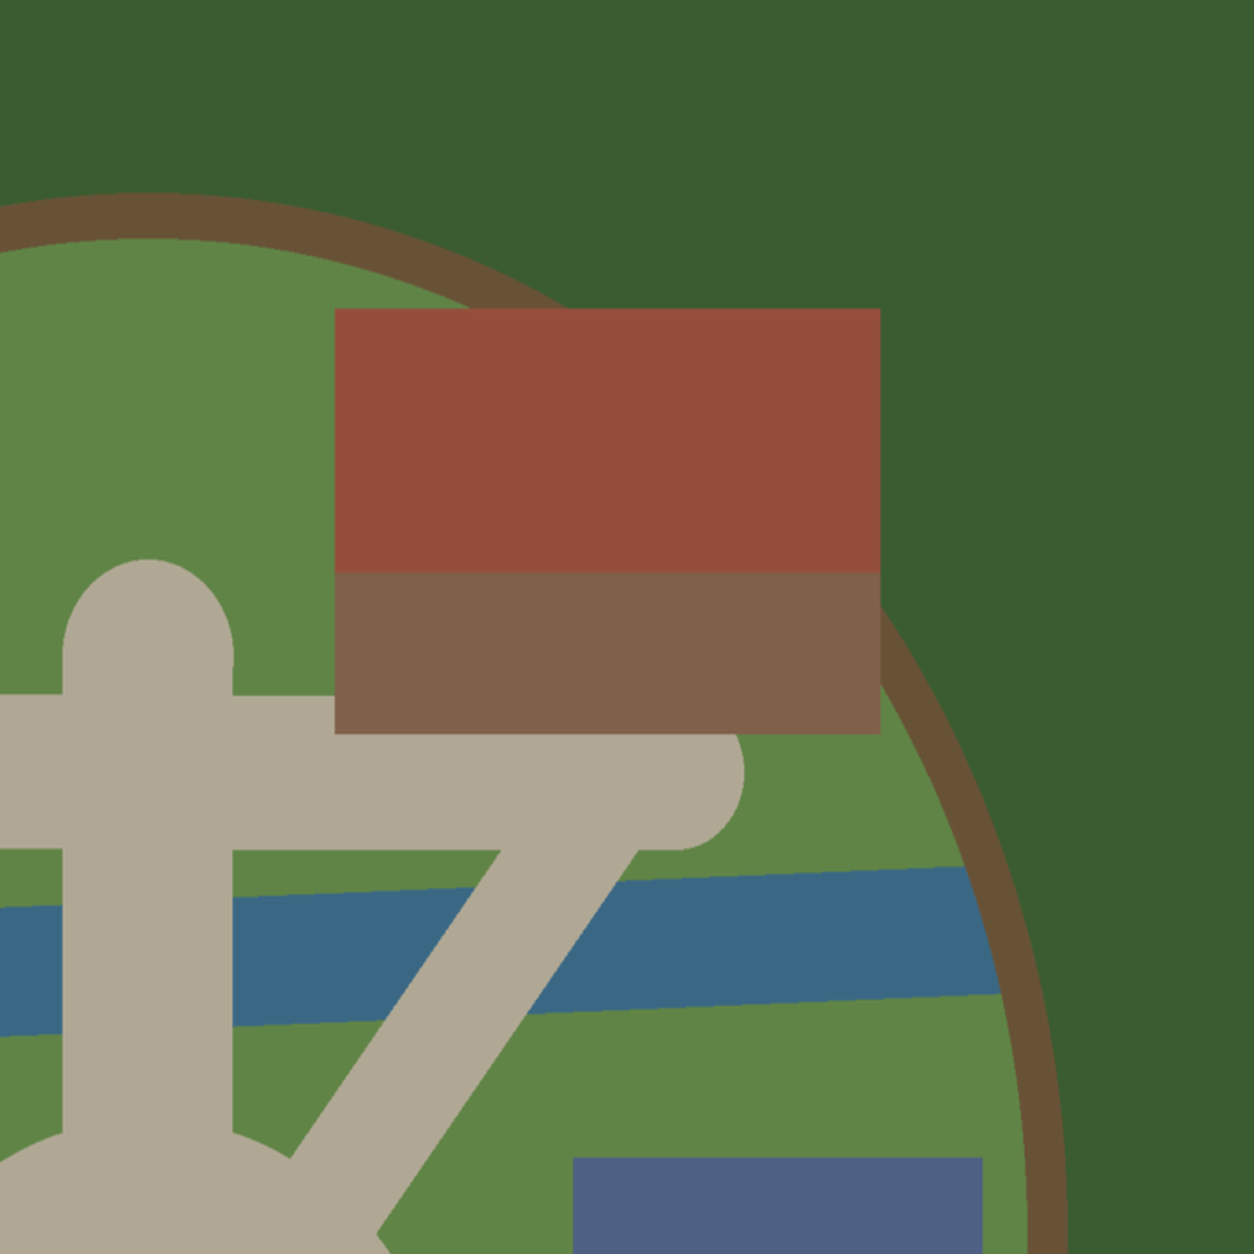
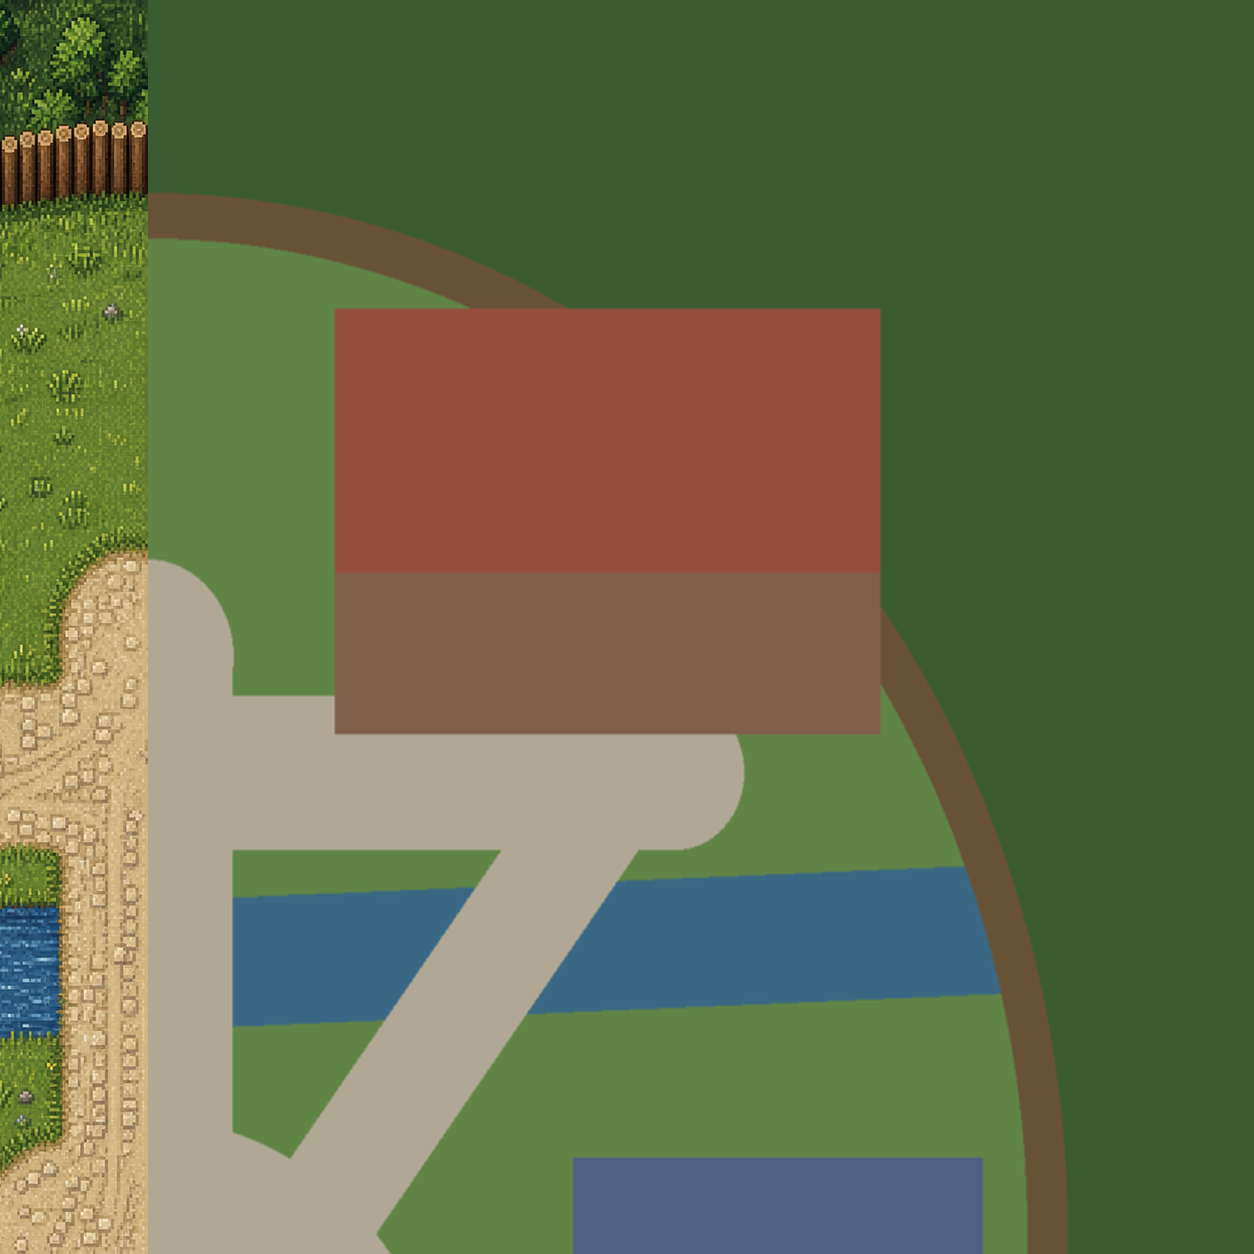
art: millbrook tile 0,0, and the pin keys the plate will need
TILE 0,0 IS DONE AND GATED: layout correlation 0.8839 against its own primer, against
0.2820 for the same tile under the shared whole-town brief. It draws the plan and nothing
else -- the palisade arc on its measured path, the sage-house on its block with door and
windows, the pale lanes with cart ruts, and the millstream running west to east across the
lower third and stopping where the north lane bridges it. No invented gate, no invented
well; both are listed in its brief as absent.

TILES 0,1 / 1,0 / 1,1 ARE NOT BAKED. The Codex account hit its usage limit mid-chain:
"You've hit your usage limit ... try again at Aug 21st, 2026 9:03 AM". Both remaining
calls exited 1 with no image, and 1,1 then correctly refused to start because it grafts
its band from 1,0. This is a quota wall, not a defect -- nothing in the pipeline needs
changing, it needs credits or the reset.

The briefs and primers for 0,1 and 1,0 are committed as generated, so the resumed run
starts from exactly the inputs that were about to be used. Note their edge crossings
already agree across the seam: the palisade leaves 0,0's right edge at 15-19% and meets
0,1's left edge at 16-20%.

scripts/millbrook_finish_plate.sh now carries the three pin keys verbatim in its header.
They are NOT applied to scripts/runtime_baseline.py yet, on purpose: build-dist.sh refuses
to assemble dist/ while a pinned file is missing from public/, so adding them before the
plate exists would leave HEAD unbuildable.

Changed region(s): [[0.0, 0.0, 0.1244, 1.0]]

diff --git a/design/act1-towns/millbrook/brief-01.md b/design/act1-towns/millbrook/brief-01.md
@@ -1,38 +1,54 @@
+DO THIS YOURSELF, one generation call, do not dispatch a sub-agent. Produce the image
+and stop; do not review it, do not redraw it, do not ask another agent to improve it.
+
 Draw this as hand-drawn, hard-edged pixel art at full detail.
 
-THE INPUT IS A PLAN, NOT A PICTURE. It is a flat colour-coded diagram of one tile (0,1) of a
-2x2 grid covering a small top-down JRPG mill village inside a timber palisade, with one gate at the SOUTH, a clear millstream running west to east across the north of the village, a working watermill with a wooden wheel turning in that stream, a plank bridge where the main lane crosses it, and a packed-earth yard around a stone well. It is not a blurry painting to be sharpened; it is a map telling you
-WHERE EVERYTHING GOES. Draw the finished village that this plan describes, keeping every element in
-exactly the position and at exactly the size the plan gives it.
+THE INPUT IS A PLAN, NOT A PICTURE. It is a flat colour-coded diagram, and it is ONE QUADRANT --
+tile (0,1) of a 2x2 grid -- of a small top-down JRPG mill village inside a round timber
+palisade. It is not a blurry painting to be sharpened and it is not a theme to riff on: it is a map
+telling you WHERE EVERY SINGLE THING GOES inside this crop. Draw the finished village that this
+exact crop describes, keeping every element in exactly the position, at exactly the size, and with
+exactly the extent the plan gives it.
 
-READ THE COLOURS LIKE THIS, and change nothing about where they are:
-  pale warm grey (176,168,148)  the packed-earth street and yard. THIS IS WHERE THE PLAYER WALKS, so
-                                it must read unmistakably as open, even ground -- worn earth and set
-                                stone, no clutter across it, no bushes or crates growing into it.
-  mid green (96,132,70)         grass and planting INSIDE the palisade.
-  dark green (58,92,48)         the woodland/meadow OUTSIDE the palisade.
-  brown ring (104,82,54)        the TIMBER PALISADE. A continuous wall of upright logs. It must be
-                                unbroken all the way round except at the one gate.
-  tan gap at the bottom         THE ONE GATE, and the only way in or out. Draw a real gateway there:
-                                posts, a lintel, open leaves. Everywhere else the wall is solid.
-  brown blocks with a coloured  BUILDINGS. The coloured upper part is the ROOF, the brown lower part
-  upper band                    is the facade, so each building faces DOWN-SCREEN toward the yard.
-                                Give every one a door on that facade and windows, and stand it
-                                exactly on its block.
-  blue                          WATER.
-  grey disc                     a stone well.
+WHAT IS ACTUALLY IN THIS CROP, measured off the image you have been given:
 
-WHAT YOU ARE ADDING is craft, not content: texture, material, light, doors, windows, shutters, roof
-tiles, fence posts, cart ruts, planting at the edges of the grass. Do not add a building the plan
-does not have, do not move one, do not open a second gap in the wall, and do not pave over grass or
-grass over paving -- the boundary between them is the collision the game already uses.
+  - dark-green WOODLAND, outside the palisade: 38.6% of this crop, spanning 5%-99% across and 1%-95% down
+  - mid-green GRASS, inside the palisade: 19.3% of this crop, spanning 1%-79% across and 21%-98% down
+  - pale PACKED-EARTH STREET AND YARD, the ground the player walks on: 15.9% of this crop, spanning 2%-55% across and 48%-99% down
+  - brown BUILDING FACADE, the lower band of a building block: 5.6% of this crop, spanning 27%-69% across and 46%-58% down
+  - slate-blue ROOF, the upper band of a building block: 2.5% of this crop, spanning 46%-78% across and 92%-100% down
+  - red-brown ROOF, the upper band of a building block: 9.1% of this crop, spanning 28%-69% across and 25%-45% down
+  - the TIMBER PALISADE, a wall of upright logs: 3.3% of this crop, spanning 2%-84% across and 16%-98% down; it meets the bottom edge at 82%-85%; left edge at 16%-20%
+  - the MILLSTREAM, clear running water: 5.5% of this crop, spanning 1%-77% across and 70%-81% down; it meets the left edge at 72%-83%
 
-THE LEFT EDGE OF THIS IMAGE IS ALREADY FINISHED ARTWORK, carried over from the tile
-drawn before this one. Reproduce those 148 pixels EXACTLY -- same shapes, same colours, same
-level of detail -- and continue that same drawing inward across the rest of the tile. Do not
-restyle them, do not brighten them, do not reinterpret them. They are the join, and a visible
-change across it is a failure.
+NOT PRESENT IN THIS CROP AT ALL, and therefore MUST NOT BE DRAWN INTO IT:
+  the ONE GATE through the palisade
+  a round STONE WELL
 
+READ THAT LIST LITERALLY. It is the complete contents of this crop. This is a QUADRANT of a larger
+plan, so most of the village's landmarks are in the OTHER quadrants and are not your problem. Do not
+add a gate, a well, a bridge, a watermill, a wheel, a pond, a building, a path or a stream that is
+not in the list above, however natural it would look and however much the village as a whole might
+have one somewhere else. Inventing a landmark here puts it in the wrong place on the finished town,
+and the pale ground is the COLLISION MAP the game already uses -- so paving over grass or grassing
+over paving changes where the player is allowed to walk.
+
+GEOMETRY IS THE POINT. The palisade must follow the plan's brown curve along its whole length and
+meet the crop's edges exactly where the list says it does, so that it continues into the neighbouring
+quadrants. Water must do the same. A building's block must keep its position and footprint: the
+coloured upper part is the ROOF and the brown lower part is the FACADE, so the building faces
+DOWN-SCREEN. Give every building a door on that facade, and windows.
+
+WHAT YOU ARE ADDING is craft, not content: texture, material, light, roof tiles, shutters, planks,
+fence posts, cart ruts, individual cobbles, tussocks and planting at the edges of the grass. The
+pale ground must read unmistakably as open, even, walkable ground -- worn earth and set stone, with
+nothing built across it.
+
+THE LEFT EDGE OF THIS IMAGE IS ALREADY FINISHED ARTWORK, carried over from the tile drawn before this
+one. Reproduce those 148 pixels EXACTLY -- same shapes, same colours, same level of detail --
+and continue that same drawing inward across the rest of the tile. Do not restyle them, do not
+brighten them, do not reinterpret them. They are the join, and a visible change across it is a
+failure.
 
 OUTPUT: one RGB PNG the same pixel dimensions as the input. Print its absolute path on a line of its
 own. Do not delete it and do not write anywhere under /tmp.
@@ -47,4 +63,5 @@ palette reduction. Hand-drawn art of this kind measures, on the mean absolute lu
 neighbouring pixels, 26 or more overall, 34-52% of steps at 24 or above, and 22-40% of steps between
 4 and 20. That middle band is real shading inside shapes; keep it.
 
-LIGHT AND PALETTE. One upper-left sun, short soft shadows, warm late-morning daylight over open farmland. Mean luminance about 90.
+LIGHT AND PALETTE. One upper-left sun, short soft shadows, warm late-morning daylight over open
+farmland. Mean luminance about 90.

diff --git a/design/act1-towns/millbrook/brief-10.md b/design/act1-towns/millbrook/brief-10.md
@@ -1,38 +1,54 @@
+DO THIS YOURSELF, one generation call, do not dispatch a sub-agent. Produce the image
+and stop; do not review it, do not redraw it, do not ask another agent to improve it.
+
 Draw this as hand-drawn, hard-edged pixel art at full detail.
 
-THE INPUT IS A PLAN, NOT A PICTURE. It is a flat colour-coded diagram of one tile (1,0) of a
-2x2 grid covering a small top-down JRPG mill village inside a timber palisade, with one gate at the SOUTH, a clear millstream running west to east across the north of the village, a working watermill with a wooden wheel turning in that stream, a plank bridge where the main lane crosses it, and a packed-earth yard around a stone well. It is not a blurry painting to be sharpened; it is a map telling you
-WHERE EVERYTHING GOES. Draw the finished village that this plan describes, keeping every element in
-exactly the position and at exactly the size the plan gives it.
+THE INPUT IS A PLAN, NOT A PICTURE. It is a flat colour-coded diagram, and it is ONE QUADRANT --
+tile (1,0) of a 2x2 grid -- of a small top-down JRPG mill village inside a round timber
+palisade. It is not a blurry painting to be sharpened and it is not a theme to riff on: it is a map
+telling you WHERE EVERY SINGLE THING GOES inside this crop. Draw the finished village that this
+exact crop describes, keeping every element in exactly the position, at exactly the size, and with
+exactly the extent the plan gives it.
 
-READ THE COLOURS LIKE THIS, and change nothing about where they are:
-  pale warm grey (176,168,148)  the packed-earth street and yard. THIS IS WHERE THE PLAYER WALKS, so
-                                it must read unmistakably as open, even ground -- worn earth and set
-                                stone, no clutter across it, no bushes or crates growing into it.
-  mid green (96,132,70)         grass and planting INSIDE the palisade.
-  dark green (58,92,48)         the woodland/meadow OUTSIDE the palisade.
-  brown ring (104,82,54)        the TIMBER PALISADE. A continuous wall of upright logs. It must be
-                                unbroken all the way round except at the one gate.
-  tan gap at the bottom         THE ONE GATE, and the only way in or out. Draw a real gateway there:
-                                posts, a lintel, open leaves. Everywhere else the wall is solid.
-  brown blocks with a coloured  BUILDINGS. The coloured upper part is the ROOF, the brown lower part
-  upper band                    is the facade, so each building faces DOWN-SCREEN toward the yard.
-                                Give every one a door on that facade and windows, and stand it
-                                exactly on its block.
-  blue                          WATER.
-  grey disc                     a stone well.
+WHAT IS ACTUALLY IN THIS CROP, measured off the image you have been given:
 
-WHAT YOU ARE ADDING is craft, not content: texture, material, light, doors, windows, shutters, roof
-tiles, fence posts, cart ruts, planting at the edges of the grass. Do not add a building the plan
-does not have, do not move one, do not open a second gap in the wall, and do not pave over grass or
-grass over paving -- the boundary between them is the collision the game already uses.
+  - dark-green WOODLAND, outside the palisade: 42.4% of this crop, spanning 1%-90% across and 5%-99% down
+  - mid-green GRASS, inside the palisade: 23.9% of this crop, spanning 23%-91% across and 1%-76% down
+  - pale PACKED-EARTH STREET AND YARD, the ground the player walks on: 19.5% of this crop, spanning 44%-99% across and 2%-80% down
+  - brown BUILDING FACADE, the lower band of a building block: 3.5% of this crop, spanning 28%-64% across and 47%-56% down
+  - red-brown ROOF, the upper band of a building block: 5.6% of this crop, spanning 28%-64% across and 32%-47% down
+  - the TIMBER PALISADE, a wall of upright logs: 3.6% of this crop, spanning 17%-89% across and 2%-82% down; it meets the top edge at 18%-21%
+  - the ONE GATE through the palisade: 0.8% of this crop, spanning 44%-100% across and 6%-88% down
+  - a round STONE WELL: 0.6% of this crop, spanning 94%-100% across and 21%-32% down
 
-THE TOP EDGE OF THIS IMAGE IS ALREADY FINISHED ARTWORK, carried over from the tile
-drawn before this one. Reproduce those 148 pixels EXACTLY -- same shapes, same colours, same
-level of detail -- and continue that same drawing inward across the rest of the tile. Do not
-restyle them, do not brighten them, do not reinterpret them. They are the join, and a visible
-change across it is a failure.
+NOT PRESENT IN THIS CROP AT ALL, and therefore MUST NOT BE DRAWN INTO IT:
+  slate-blue ROOF, the upper band of a building block
+  the MILLSTREAM, clear running water
 
+READ THAT LIST LITERALLY. It is the complete contents of this crop. This is a QUADRANT of a larger
+plan, so most of the village's landmarks are in the OTHER quadrants and are not your problem. Do not
+add a gate, a well, a bridge, a watermill, a wheel, a pond, a building, a path or a stream that is
+not in the list above, however natural it would look and however much the village as a whole might
+have one somewhere else. Inventing a landmark here puts it in the wrong place on the finished town,
+and the pale ground is the COLLISION MAP the game already uses -- so paving over grass or grassing
+over paving changes where the player is allowed to walk.
+
+GEOMETRY IS THE POINT. The palisade must follow the plan's brown curve along its whole length and
+meet the crop's edges exactly where the list says it does, so that it continues into the neighbouring
+quadrants. Water must do the same. A building's block must keep its position and footprint: the
+coloured upper part is the ROOF and the brown lower part is the FACADE, so the building faces
+DOWN-SCREEN. Give every building a door on that facade, and windows.
+
+WHAT YOU ARE ADDING is craft, not content: texture, material, light, roof tiles, shutters, planks,
+fence posts, cart ruts, individual cobbles, tussocks and planting at the edges of the grass. The
+pale ground must read unmistakably as open, even, walkable ground -- worn earth and set stone, with
+nothing built across it.
+
+THE TOP EDGE OF THIS IMAGE IS ALREADY FINISHED ARTWORK, carried over from the tile drawn before this
+one. Reproduce those 148 pixels EXACTLY -- same shapes, same colours, same level of detail --
+and continue that same drawing inward across the rest of the tile. Do not restyle them, do not
+brighten them, do not reinterpret them. They are the join, and a visible change across it is a
+failure.
 
 OUTPUT: one RGB PNG the same pixel dimensions as the input. Print its absolute path on a line of its
 own. Do not delete it and do not write anywhere under /tmp.
@@ -47,4 +63,5 @@ palette reduction. Hand-drawn art of this kind measures, on the mean absolute lu
 neighbouring pixels, 26 or more overall, 34-52% of steps at 24 or above, and 22-40% of steps between
 4 and 20. That middle band is real shading inside shapes; keep it.
 
-LIGHT AND PALETTE. One upper-left sun, short soft shadows, warm late-morning daylight over open farmland. Mean luminance about 90.
+LIGHT AND PALETTE. One upper-left sun, short soft shadows, warm late-morning daylight over open
+farmland. Mean luminance about 90.

diff --git a/design/act1-towns/millbrook/brief-00.md b/design/act1-towns/millbrook/brief-00.md
@@ -1,32 +1,45 @@
 Draw this as hand-drawn, hard-edged pixel art at full detail.
 
-THE INPUT IS A PLAN, NOT A PICTURE. It is a flat colour-coded diagram of one tile (0,0) of a
-2x2 grid covering a small top-down JRPG mill village inside a timber palisade, with one gate at the SOUTH, a clear millstream running west to east across the north of the village, a working watermill with a wooden wheel turning in that stream, a plank bridge where the main lane crosses it, and a packed-earth yard around a stone well. It is not a blurry painting to be sharpened; it is a map telling you
-WHERE EVERYTHING GOES. Draw the finished village that this plan describes, keeping every element in
-exactly the position and at exactly the size the plan gives it.
+THE INPUT IS A PLAN, NOT A PICTURE. It is a flat colour-coded diagram, and it is ONE QUADRANT --
+tile (0,0) of a 2x2 grid -- of a small top-down JRPG mill village inside a round timber
+palisade. It is not a blurry painting to be sharpened and it is not a theme to riff on: it is a map
+telling you WHERE EVERY SINGLE THING GOES inside this crop. Draw the finished village that this
+exact crop describes, keeping every element in exactly the position, at exactly the size, and with
+exactly the extent the plan gives it.
 
-READ THE COLOURS LIKE THIS, and change nothing about where they are:
-  pale warm grey (176,168,148)  the packed-earth street and yard. THIS IS WHERE THE PLAYER WALKS, so
-                                it must read unmistakably as open, even ground -- worn earth and set
-                                stone, no clutter across it, no bushes or crates growing into it.
-  mid green (96,132,70)         grass and planting INSIDE the palisade.
-  dark green (58,92,48)         the woodland/meadow OUTSIDE the palisade.
-  brown ring (104,82,54)        the TIMBER PALISADE. A continuous wall of upright logs. It must be
-                                unbroken all the way round except at the one gate.
-  tan gap at the bottom         THE ONE GATE, and the only way in or out. Draw a real gateway there:
-                                posts, a lintel, open leaves. Everywhere else the wall is solid.
-  brown blocks with a coloured  BUILDINGS. The coloured upper part is the ROOF, the brown lower part
-  upper band                    is the facade, so each building faces DOWN-SCREEN toward the yard.
-                                Give every one a door on that facade and windows, and stand it
-                                exactly on its block.
-  blue                          WATER.
-  grey disc                     a stone well.
+WHAT IS ACTUALLY IN THIS CROP, measured off the image you have been given:
 
-WHAT YOU ARE ADDING is craft, not content: texture, material, light, doors, windows, shutters, roof
-tiles, fence posts, cart ruts, planting at the edges of the grass. Do not add a building the plan
-does not have, do not move one, do not open a second gap in the wall, and do not pave over grass or
-grass over paving -- the boundary between them is the collision the game already uses.
+  - dark-green WOODLAND, outside the palisade: 42.5% of this crop, spanning 1%-94% across and 1%-95% down
+  - mid-green GRASS, inside the palisade: 22.9% of this crop, spanning 24%-98% across and 22%-99% down
+  - pale PACKED-EARTH STREET AND YARD, the ground the player walks on: 14.0% of this crop, spanning 49%-99% across and 50%-99% down
+  - brown BUILDING FACADE, the lower band of a building block: 4.2% of this crop, spanning 35%-73% across and 45%-55% down
+  - slate-blue ROOF, the upper band of a building block: 6.9% of this crop, spanning 35%-73% across and 28%-45% down
+  - the TIMBER PALISADE, a wall of upright logs: 3.4% of this crop, spanning 18%-98% across and 16%-98% down; it meets the bottom edge at 17%-20%; right edge at 15%-19%
+  - the MILLSTREAM, clear running water: 5.8% of this crop, spanning 24%-91% across and 73%-84% down; it does not reach any edge of this crop, so do not run it to one
 
+NOT PRESENT IN THIS CROP AT ALL, and therefore MUST NOT BE DRAWN INTO IT:
+  red-brown ROOF, the upper band of a building block
+  the ONE GATE through the palisade
+  a round STONE WELL
+
+READ THAT LIST LITERALLY. It is the complete contents of this crop. This is a QUADRANT of a larger
+plan, so most of the village's landmarks are in the OTHER quadrants and are not your problem. Do not
+add a gate, a well, a bridge, a watermill, a wheel, a pond, a building, a path or a stream that is
+not in the list above, however natural it would look and however much the village as a whole might
+have one somewhere else. Inventing a landmark here puts it in the wrong place on the finished town,
+and the pale ground is the COLLISION MAP the game already uses -- so paving over grass or grassing
+over paving changes where the player is allowed to walk.
+
+GEOMETRY IS THE POINT. The palisade must follow the plan's brown curve along its whole length and
+meet the crop's edges exactly where the list says it does, so that it continues into the neighbouring
+quadrants. Water must do the same. A building's block must keep its position and footprint: the
+coloured upper part is the ROOF and the brown lower part is the FACADE, so the building faces
+DOWN-SCREEN. Give every building a door on that facade, and windows.
+
+WHAT YOU ARE ADDING is craft, not content: texture, material, light, roof tiles, shutters, planks,
+fence posts, cart ruts, individual cobbles, tussocks and planting at the edges of the grass. The
+pale ground must read unmistakably as open, even, walkable ground -- worn earth and set stone, with
+nothing built across it.
 
 OUTPUT: one RGB PNG the same pixel dimensions as the input. Print its absolute path on a line of its
 own. Do not delete it and do not write anywhere under /tmp.
@@ -41,4 +54,5 @@ palette reduction. Hand-drawn art of this kind measures, on the mean absolute lu
 neighbouring pixels, 26 or more overall, 34-52% of steps at 24 or above, and 22-40% of steps between
 4 and 20. That middle band is real shading inside shapes; keep it.
 
-LIGHT AND PALETTE. One upper-left sun, short soft shadows, warm late-morning daylight over open farmland. Mean luminance about 90.
+LIGHT AND PALETTE. One upper-left sun, short soft shadows, warm late-morning daylight over open
+farmland. Mean luminance about 90.
